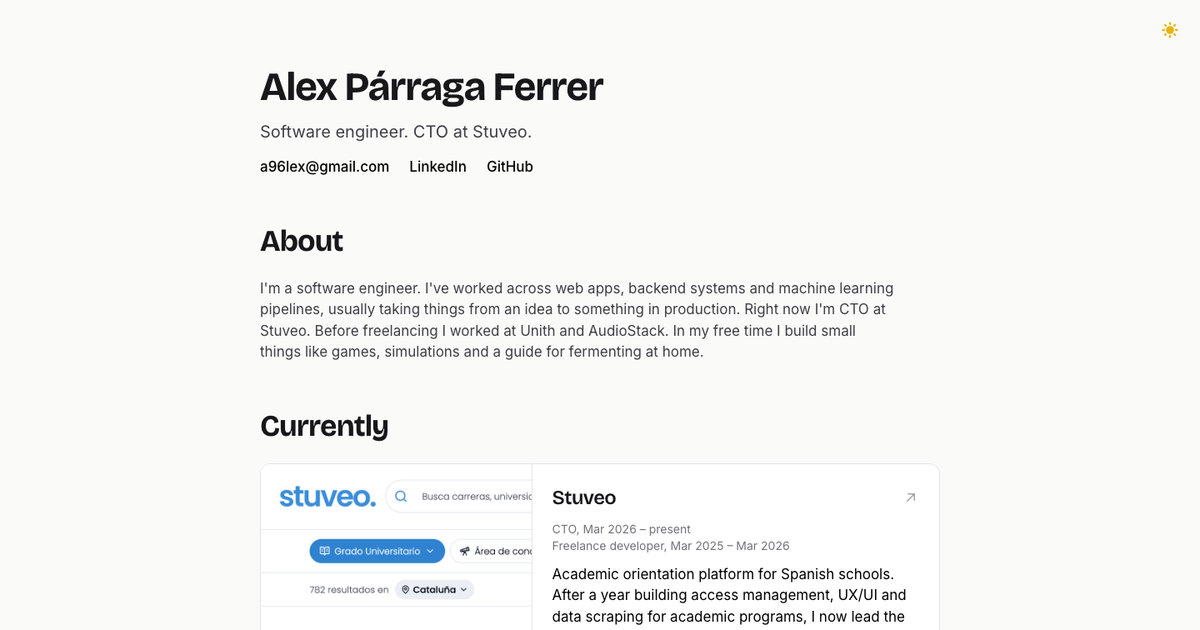
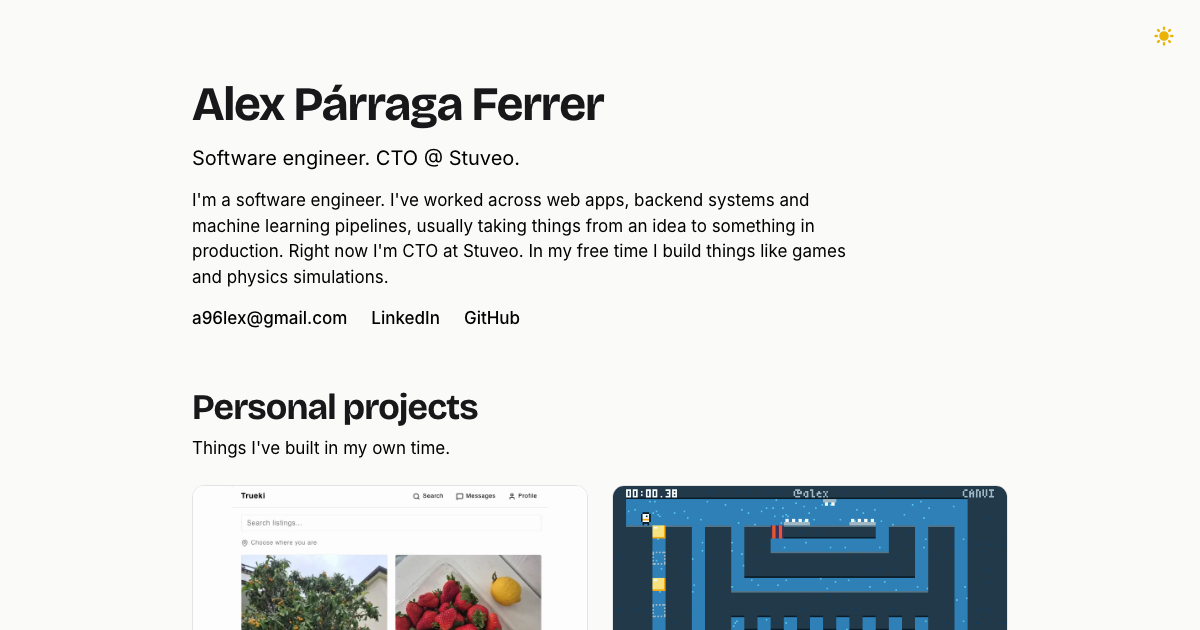
fix: use CTO @ Stuveo in meta tags and refresh link preview

diff --git a/index.html b/index.html
@@ -11,11 +11,11 @@
       rel="stylesheet"
     />
     <title>Alex Párraga Ferrer</title>
-    <meta name="description" content="Software engineer. CTO at Stuveo." />
+    <meta name="description" content="Software engineer. CTO @ Stuveo." />
     <meta property="og:type" content="website" />
     <meta property="og:url" content="https://a96lex.com/" />
     <meta property="og:title" content="Alex Párraga Ferrer" />
-    <meta property="og:description" content="Software engineer. CTO at Stuveo." />
+    <meta property="og:description" content="Software engineer. CTO @ Stuveo." />
     <meta property="og:image" content="https://a96lex.com/og-image.png" />
     <meta property="og:image:width" content="1200" />
     <meta property="og:image:height" content="630" />
